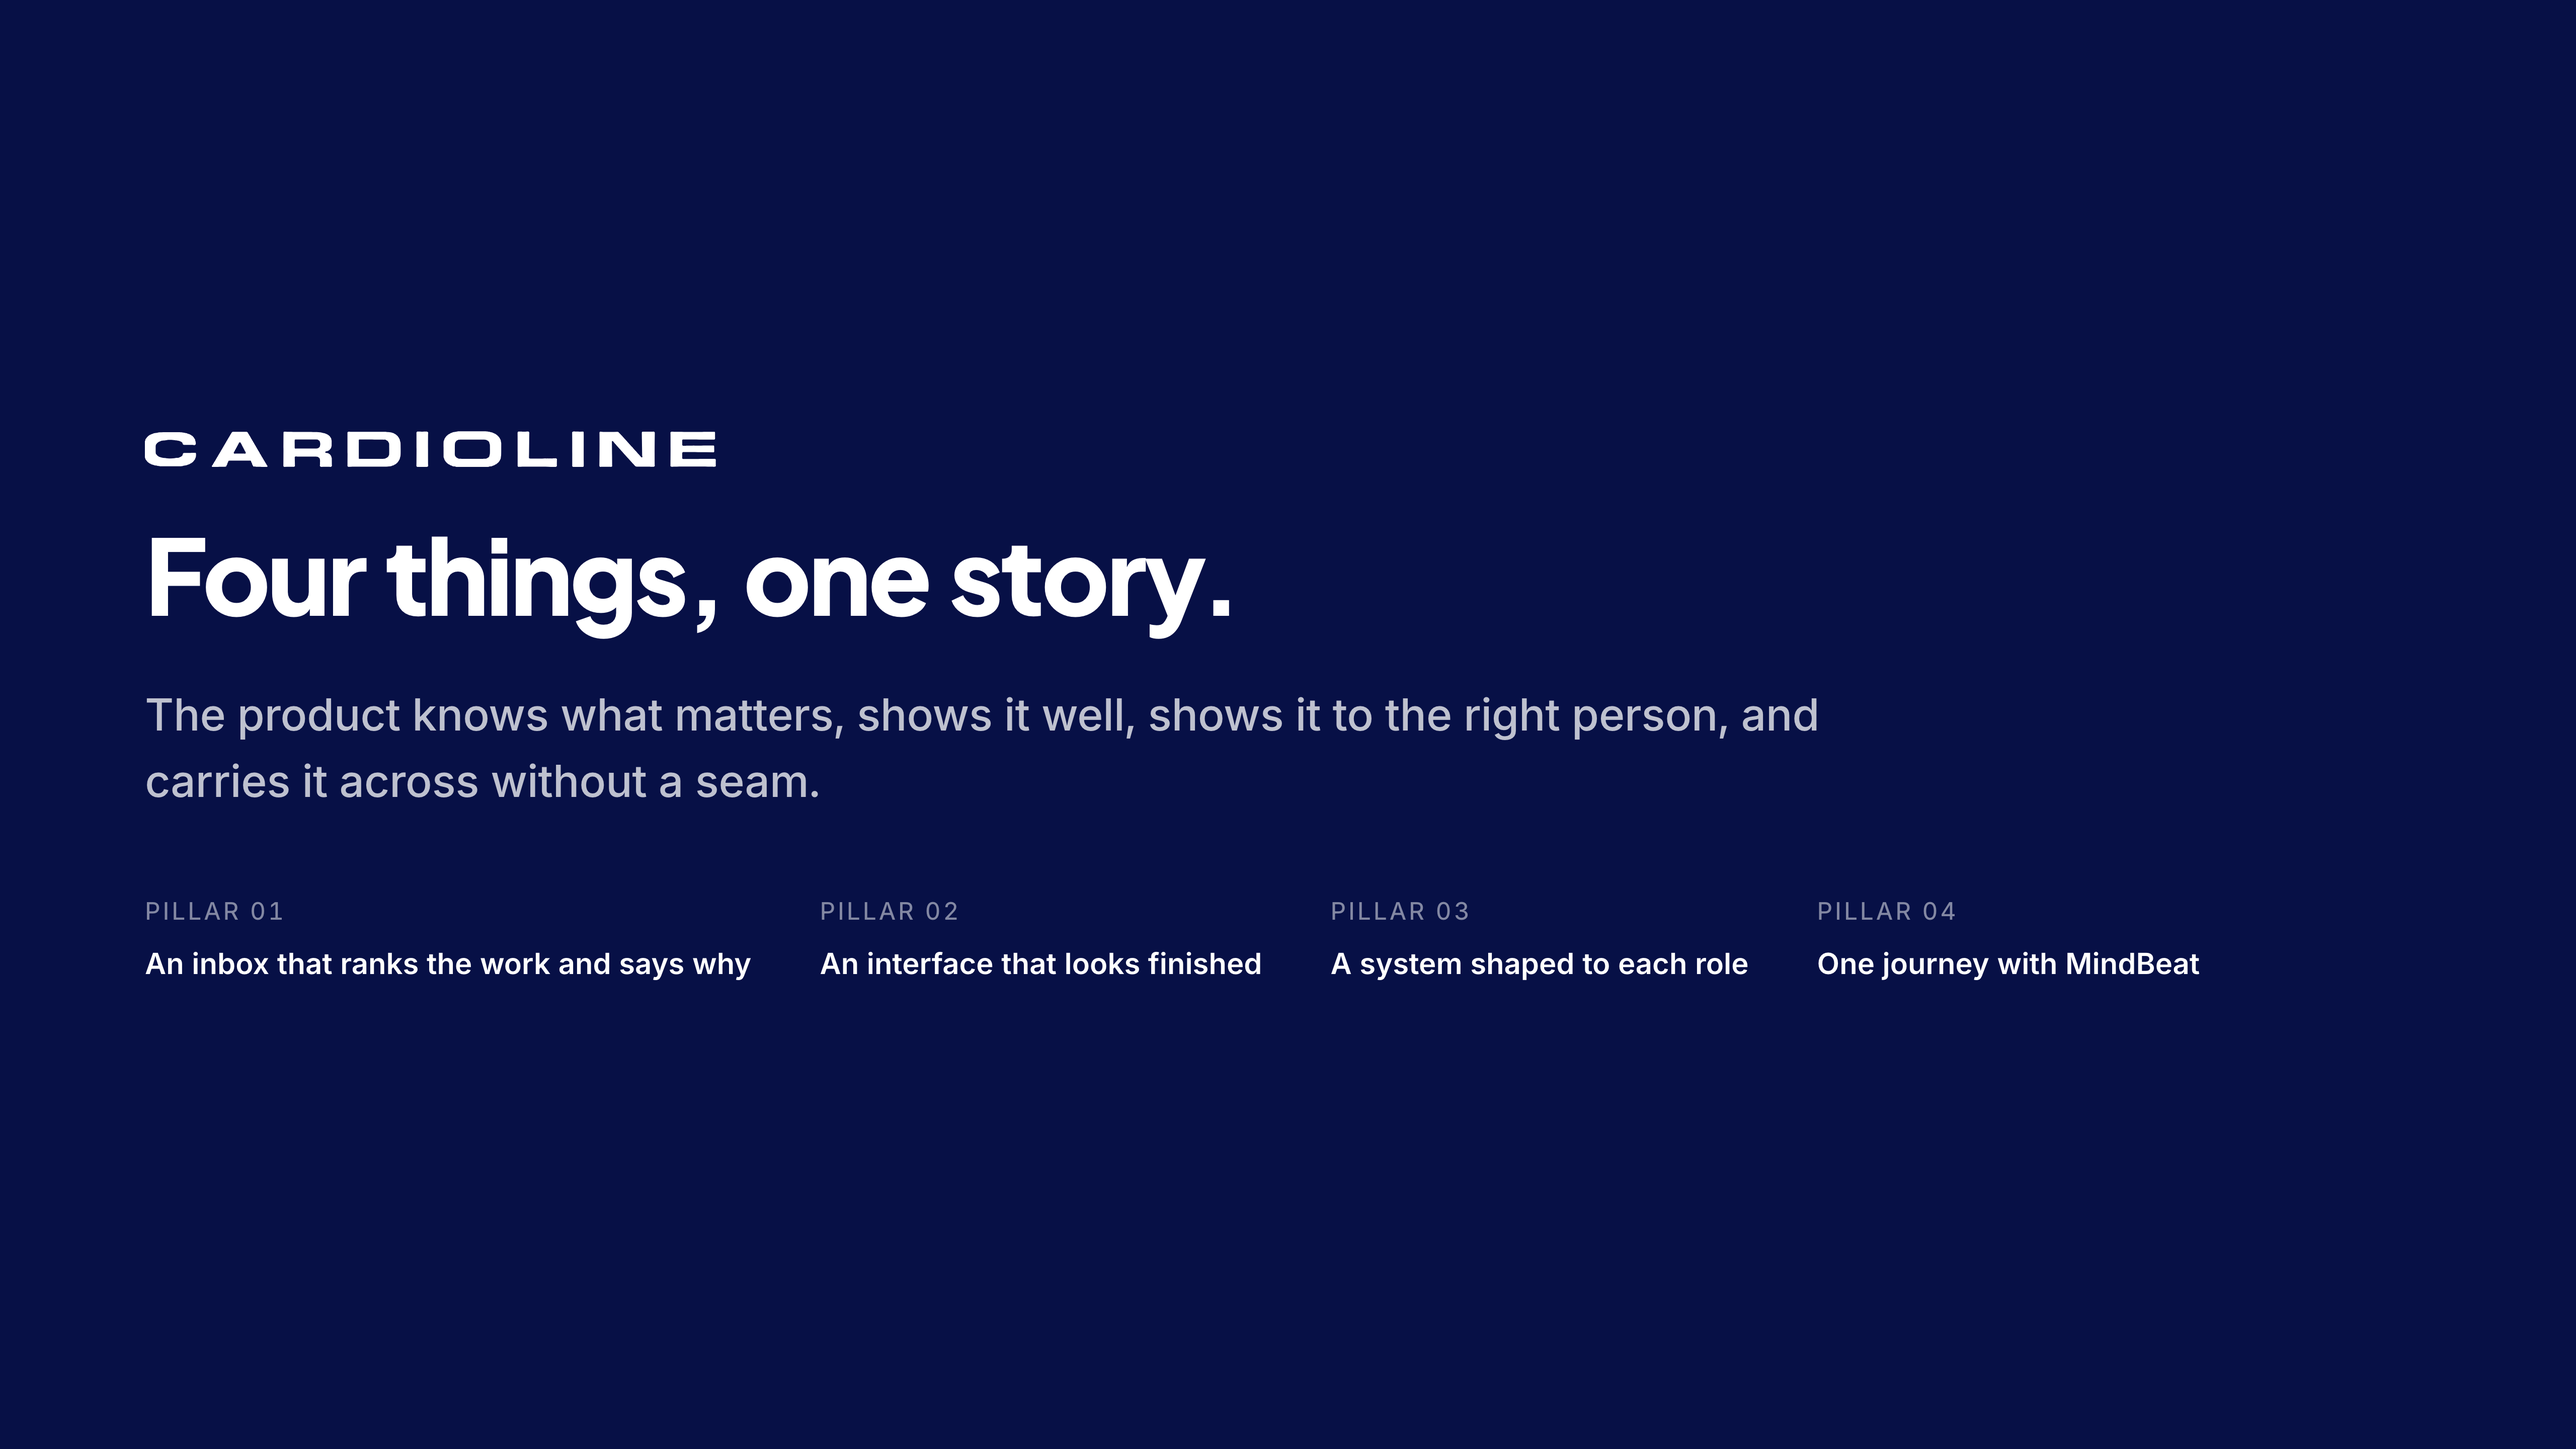
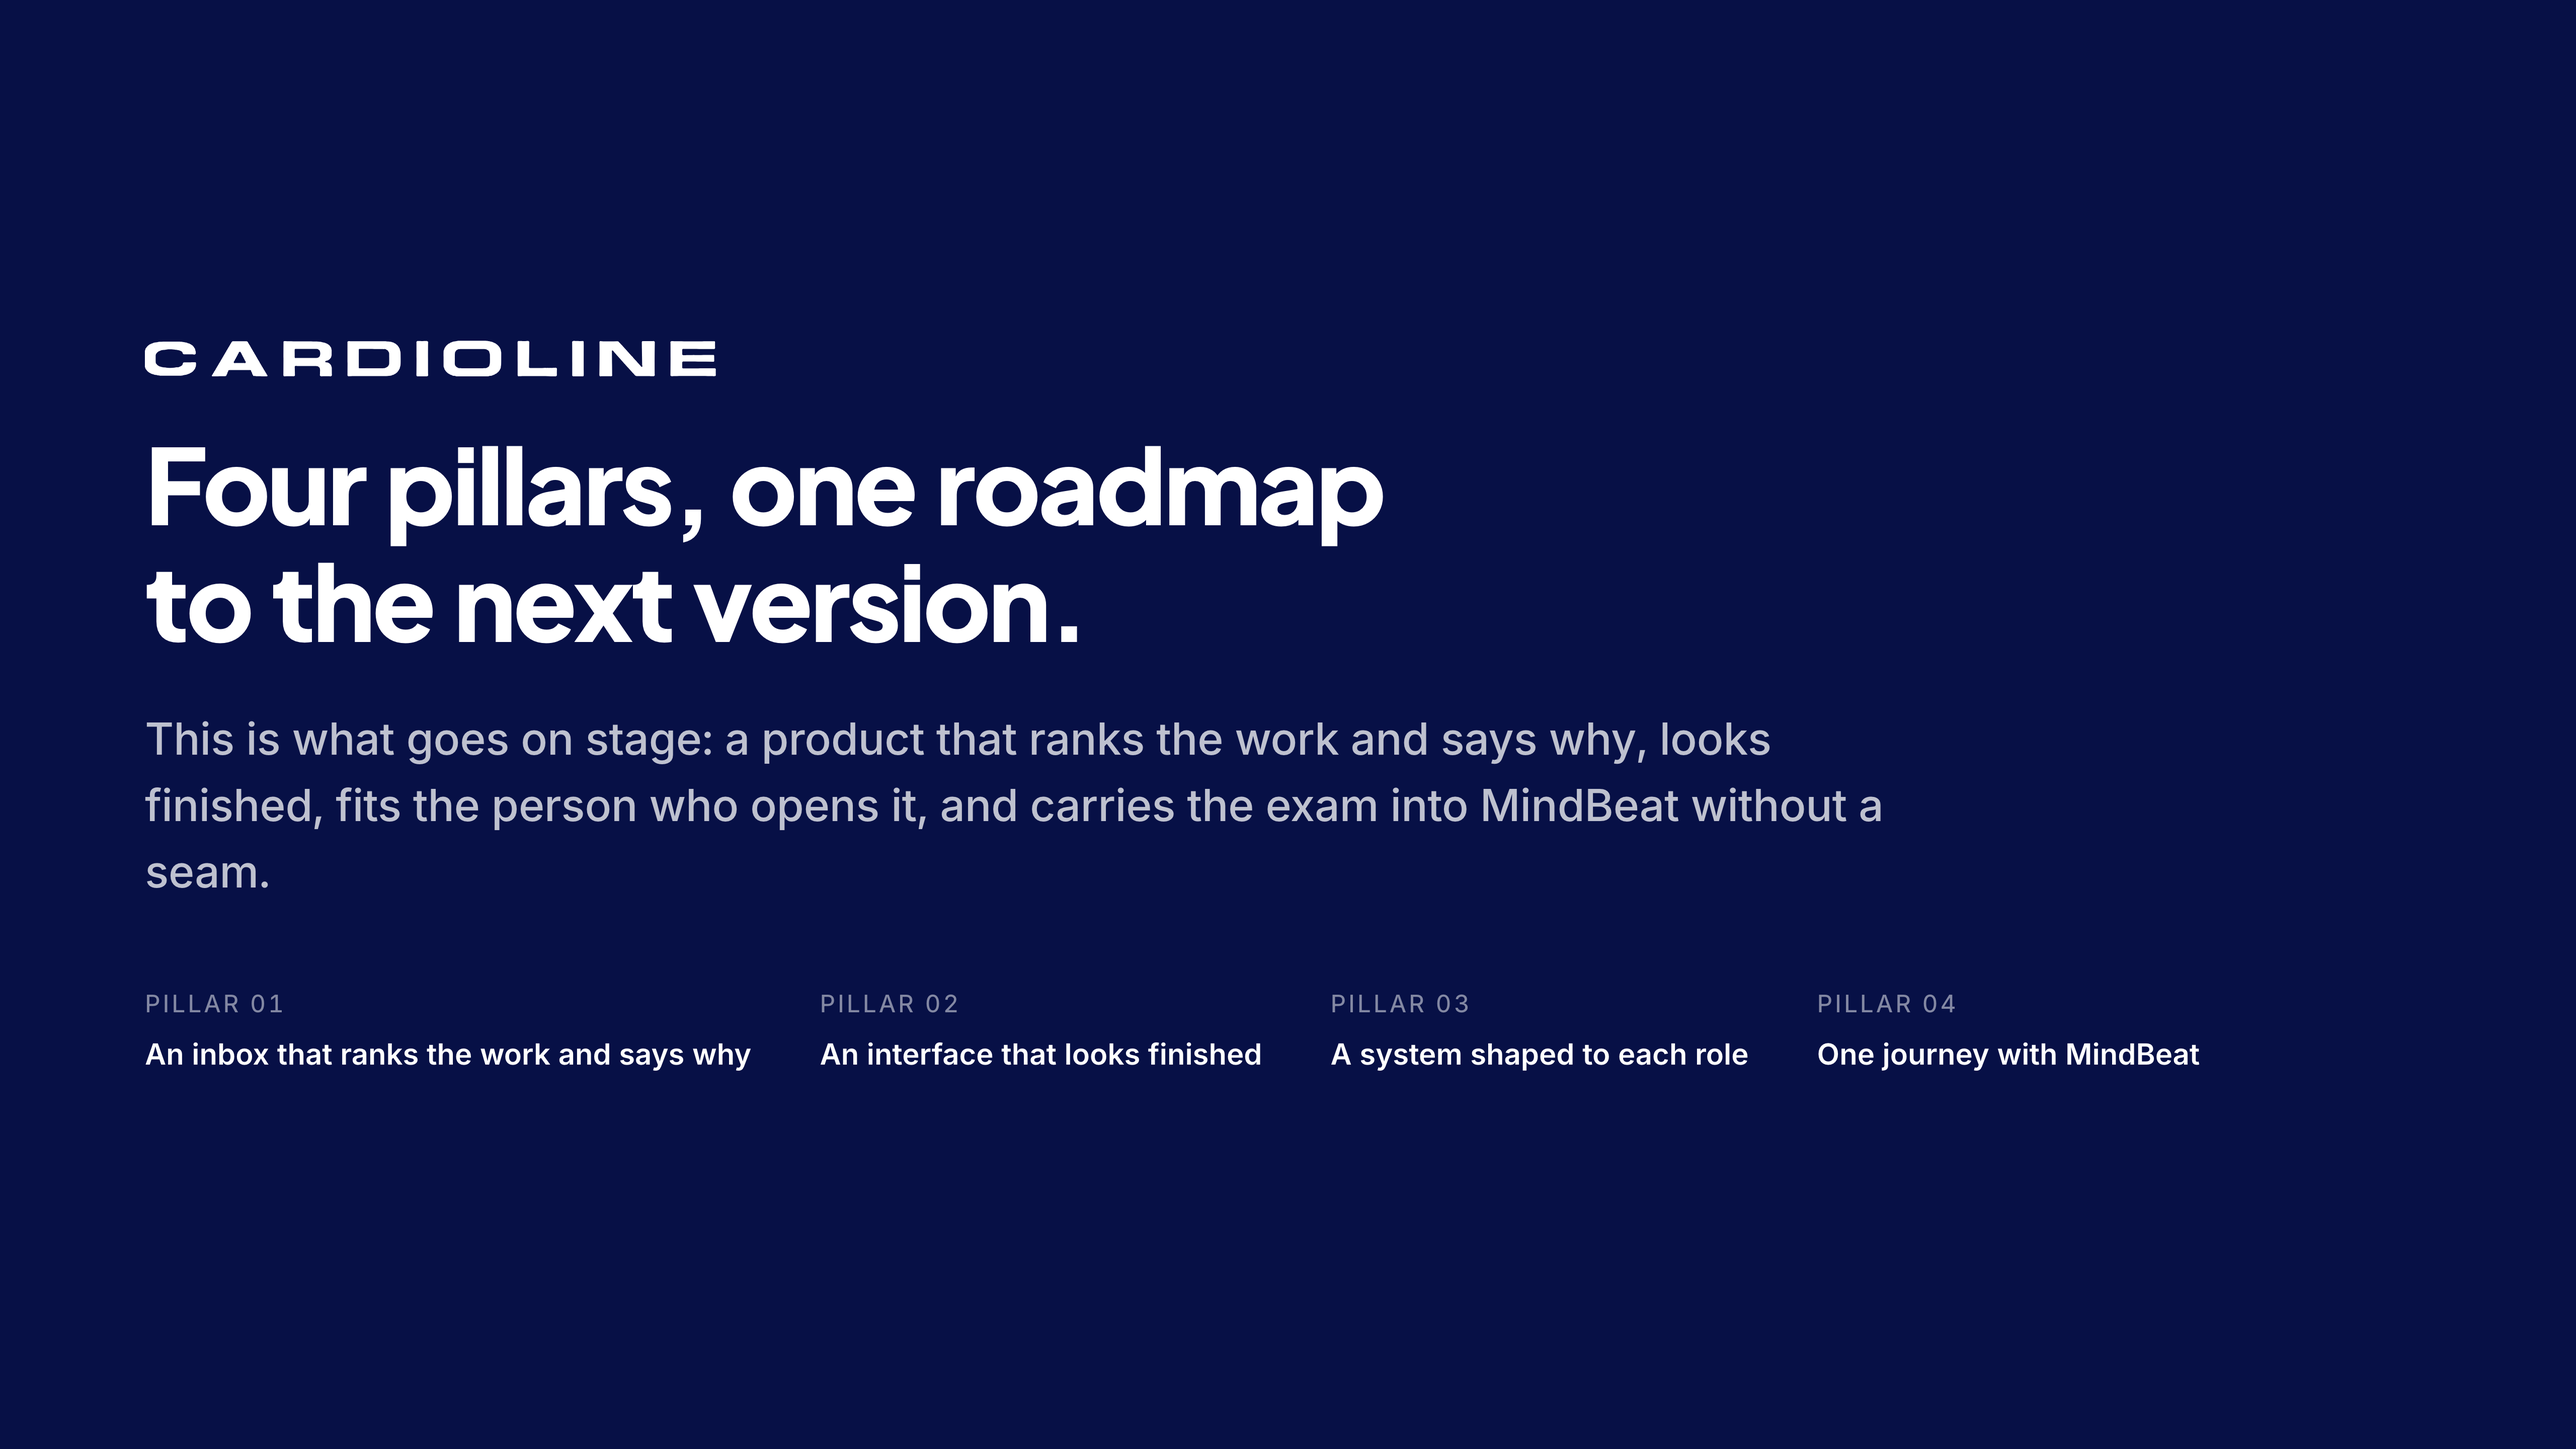
Slide final: fecha no roadmap dos quatro pilares para a next version
Claude-Session: https://claude.ai/code/session_01D4viNZJNSgPwweBi9cHEe5

diff --git a/deck.html b/deck.html
@@ -993,9 +993,9 @@ body.capture .mk-card.is-crit,
 <section class="slide t-end tone-dark" data-title="Closing" data-logo="off" data-footer="off">
   <div class="stage">
     <div class="end-mark"></div>
-    <h1>Four things, one story.</h1>
-    <p class="lead">The product knows what matters, shows it well, shows it to the right person,
-      and carries it across without a seam.</p>
+    <h1>Four pillars, one roadmap<br>to the next version.</h1>
+    <p class="lead">This is what goes on stage: a product that ranks the work and says why, looks
+      finished, fits the person who opens it, and carries the exam into MindBeat without a seam.</p>
     <dl class="end-contact">
       <div><dt>Pillar 01</dt><dd>An inbox that ranks the work and says why</dd></div>
       <div><dt>Pillar 02</dt><dd>An interface that looks finished</dd></div>

diff --git a/speaker-notes.md b/speaker-notes.md
@@ -112,4 +112,4 @@ Frame these as cheap: each is a question to Engineering or to a clinical validat
 
 ## Closing
 
-This slide stays projected through the questions. The question I leave open for the room: which prioritisation criteria matter most in your own daily practice?
+This slide stays projected through the questions, so it has to read as the roadmap and not as a summary: four pillars, one next version, and that is what the event sees. The question I leave open for the room: which prioritisation criteria matter most in your own daily practice?
